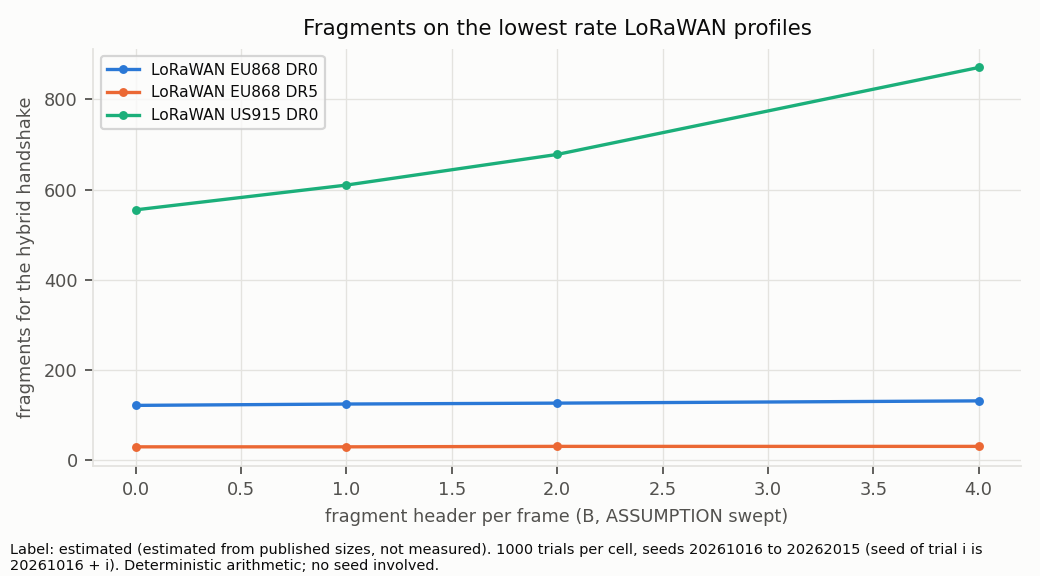
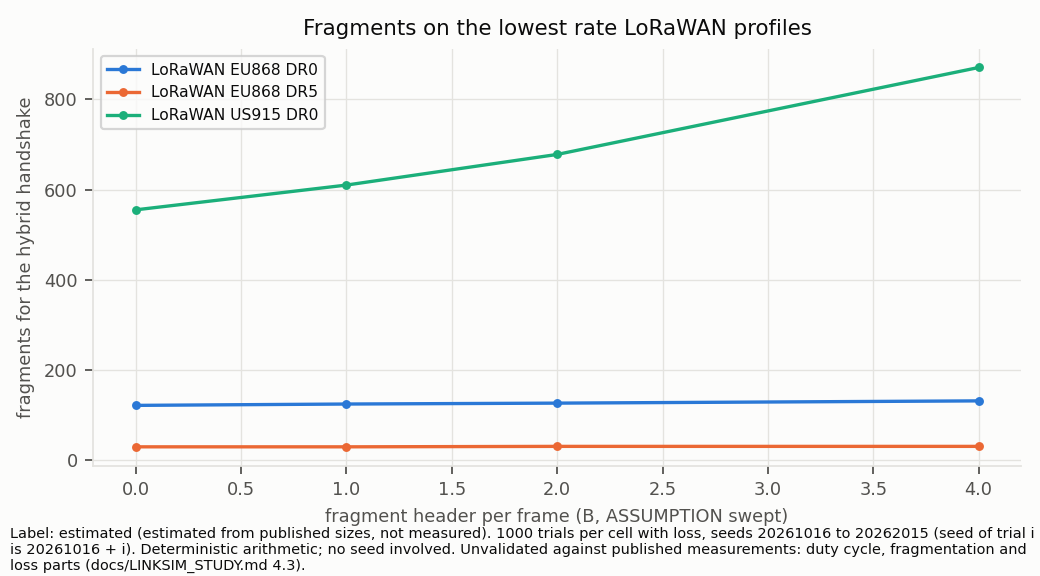
Link figures: captions name the duty cycle, fragmentation and loss parts as unvalidated

Changed region(s): [[0.0, 0.9062, 1.0, 1.0]]

diff --git a/linksim/plot_study.py b/linksim/plot_study.py
@@ -44,8 +44,9 @@ def _style():
 
 
 def _footer(fig, cfg, extra=""):
-    txt = ("Label: estimated (%s). %s trials per cell, seeds %s. %s" % (
-        model.FOOTER, cfg["trials_per_cell"], cfg["seeds"], extra)).strip()
+    txt = ("Label: estimated (%s). %s trials per cell with loss, seeds %s. %s Unvalidated against published "
+           "measurements: duty cycle, fragmentation and loss parts (docs/LINKSIM_STUDY.md 4.3)." % (
+               model.FOOTER, cfg["trials_per_cell"], cfg["seeds"], extra)).strip()
     fig.text(0.01, 0.005, txt, fontsize=6.5, color=INK, ha="left",
              va="bottom", wrap=True)
 
